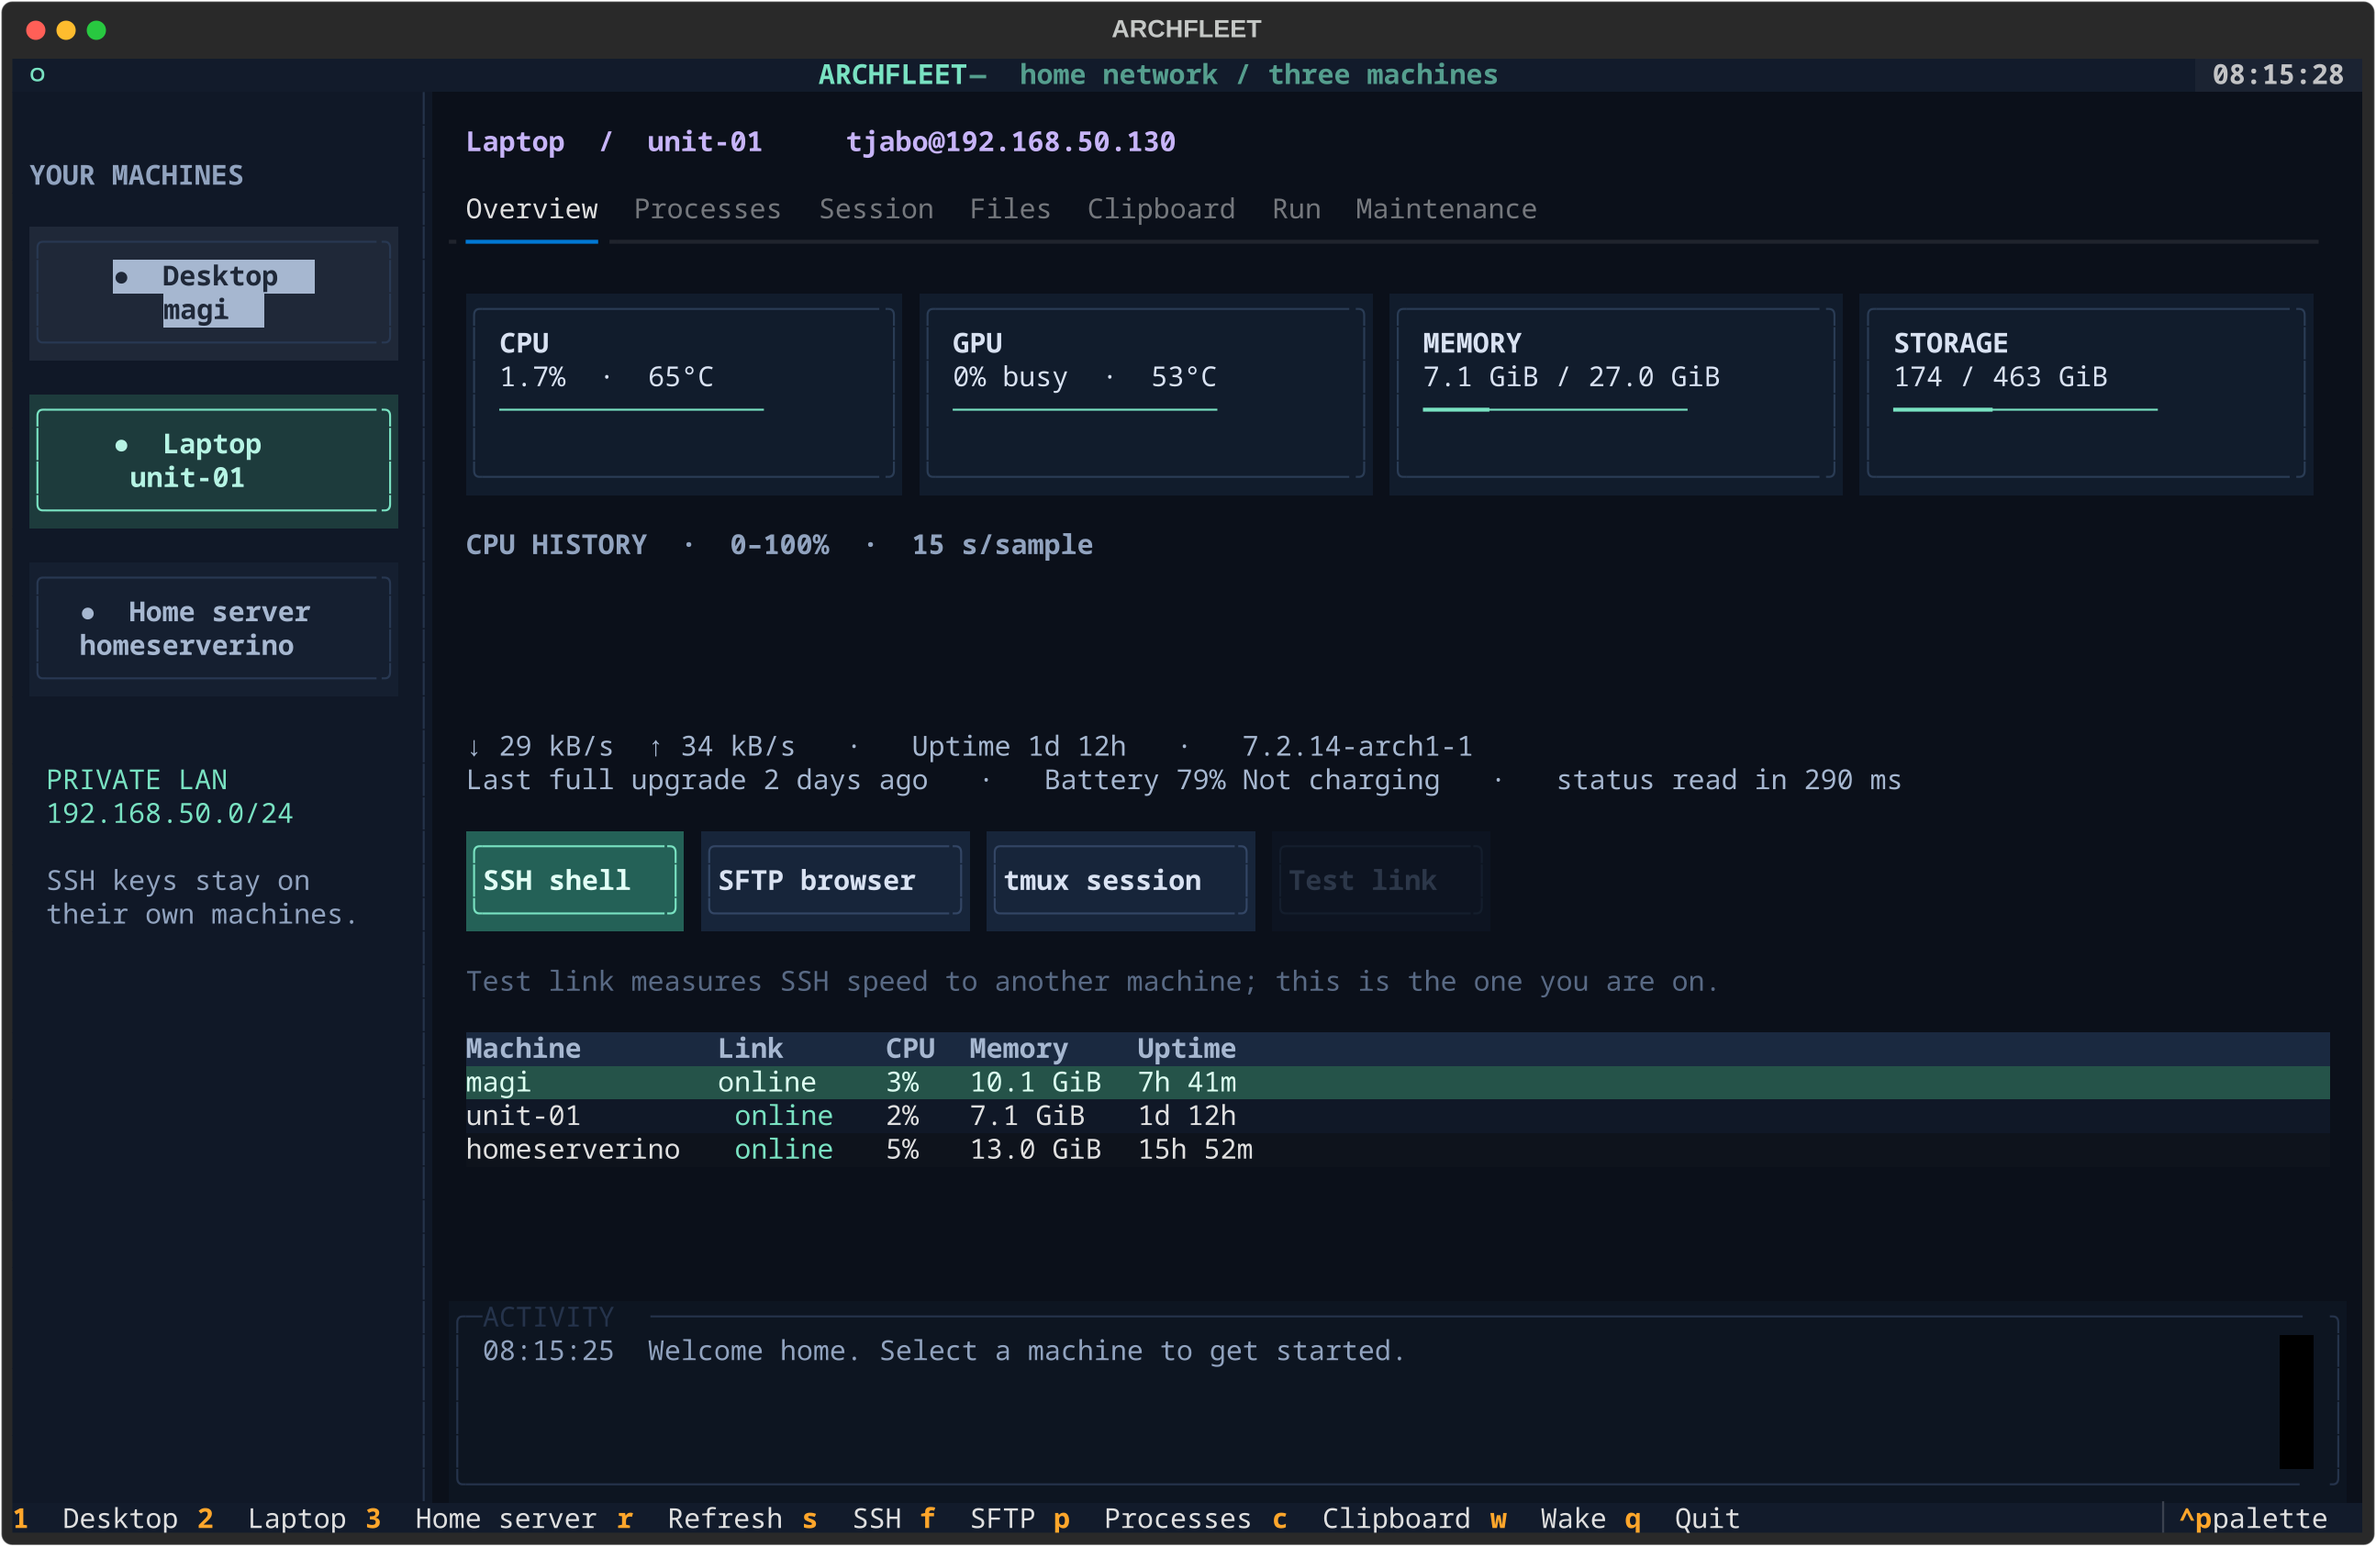
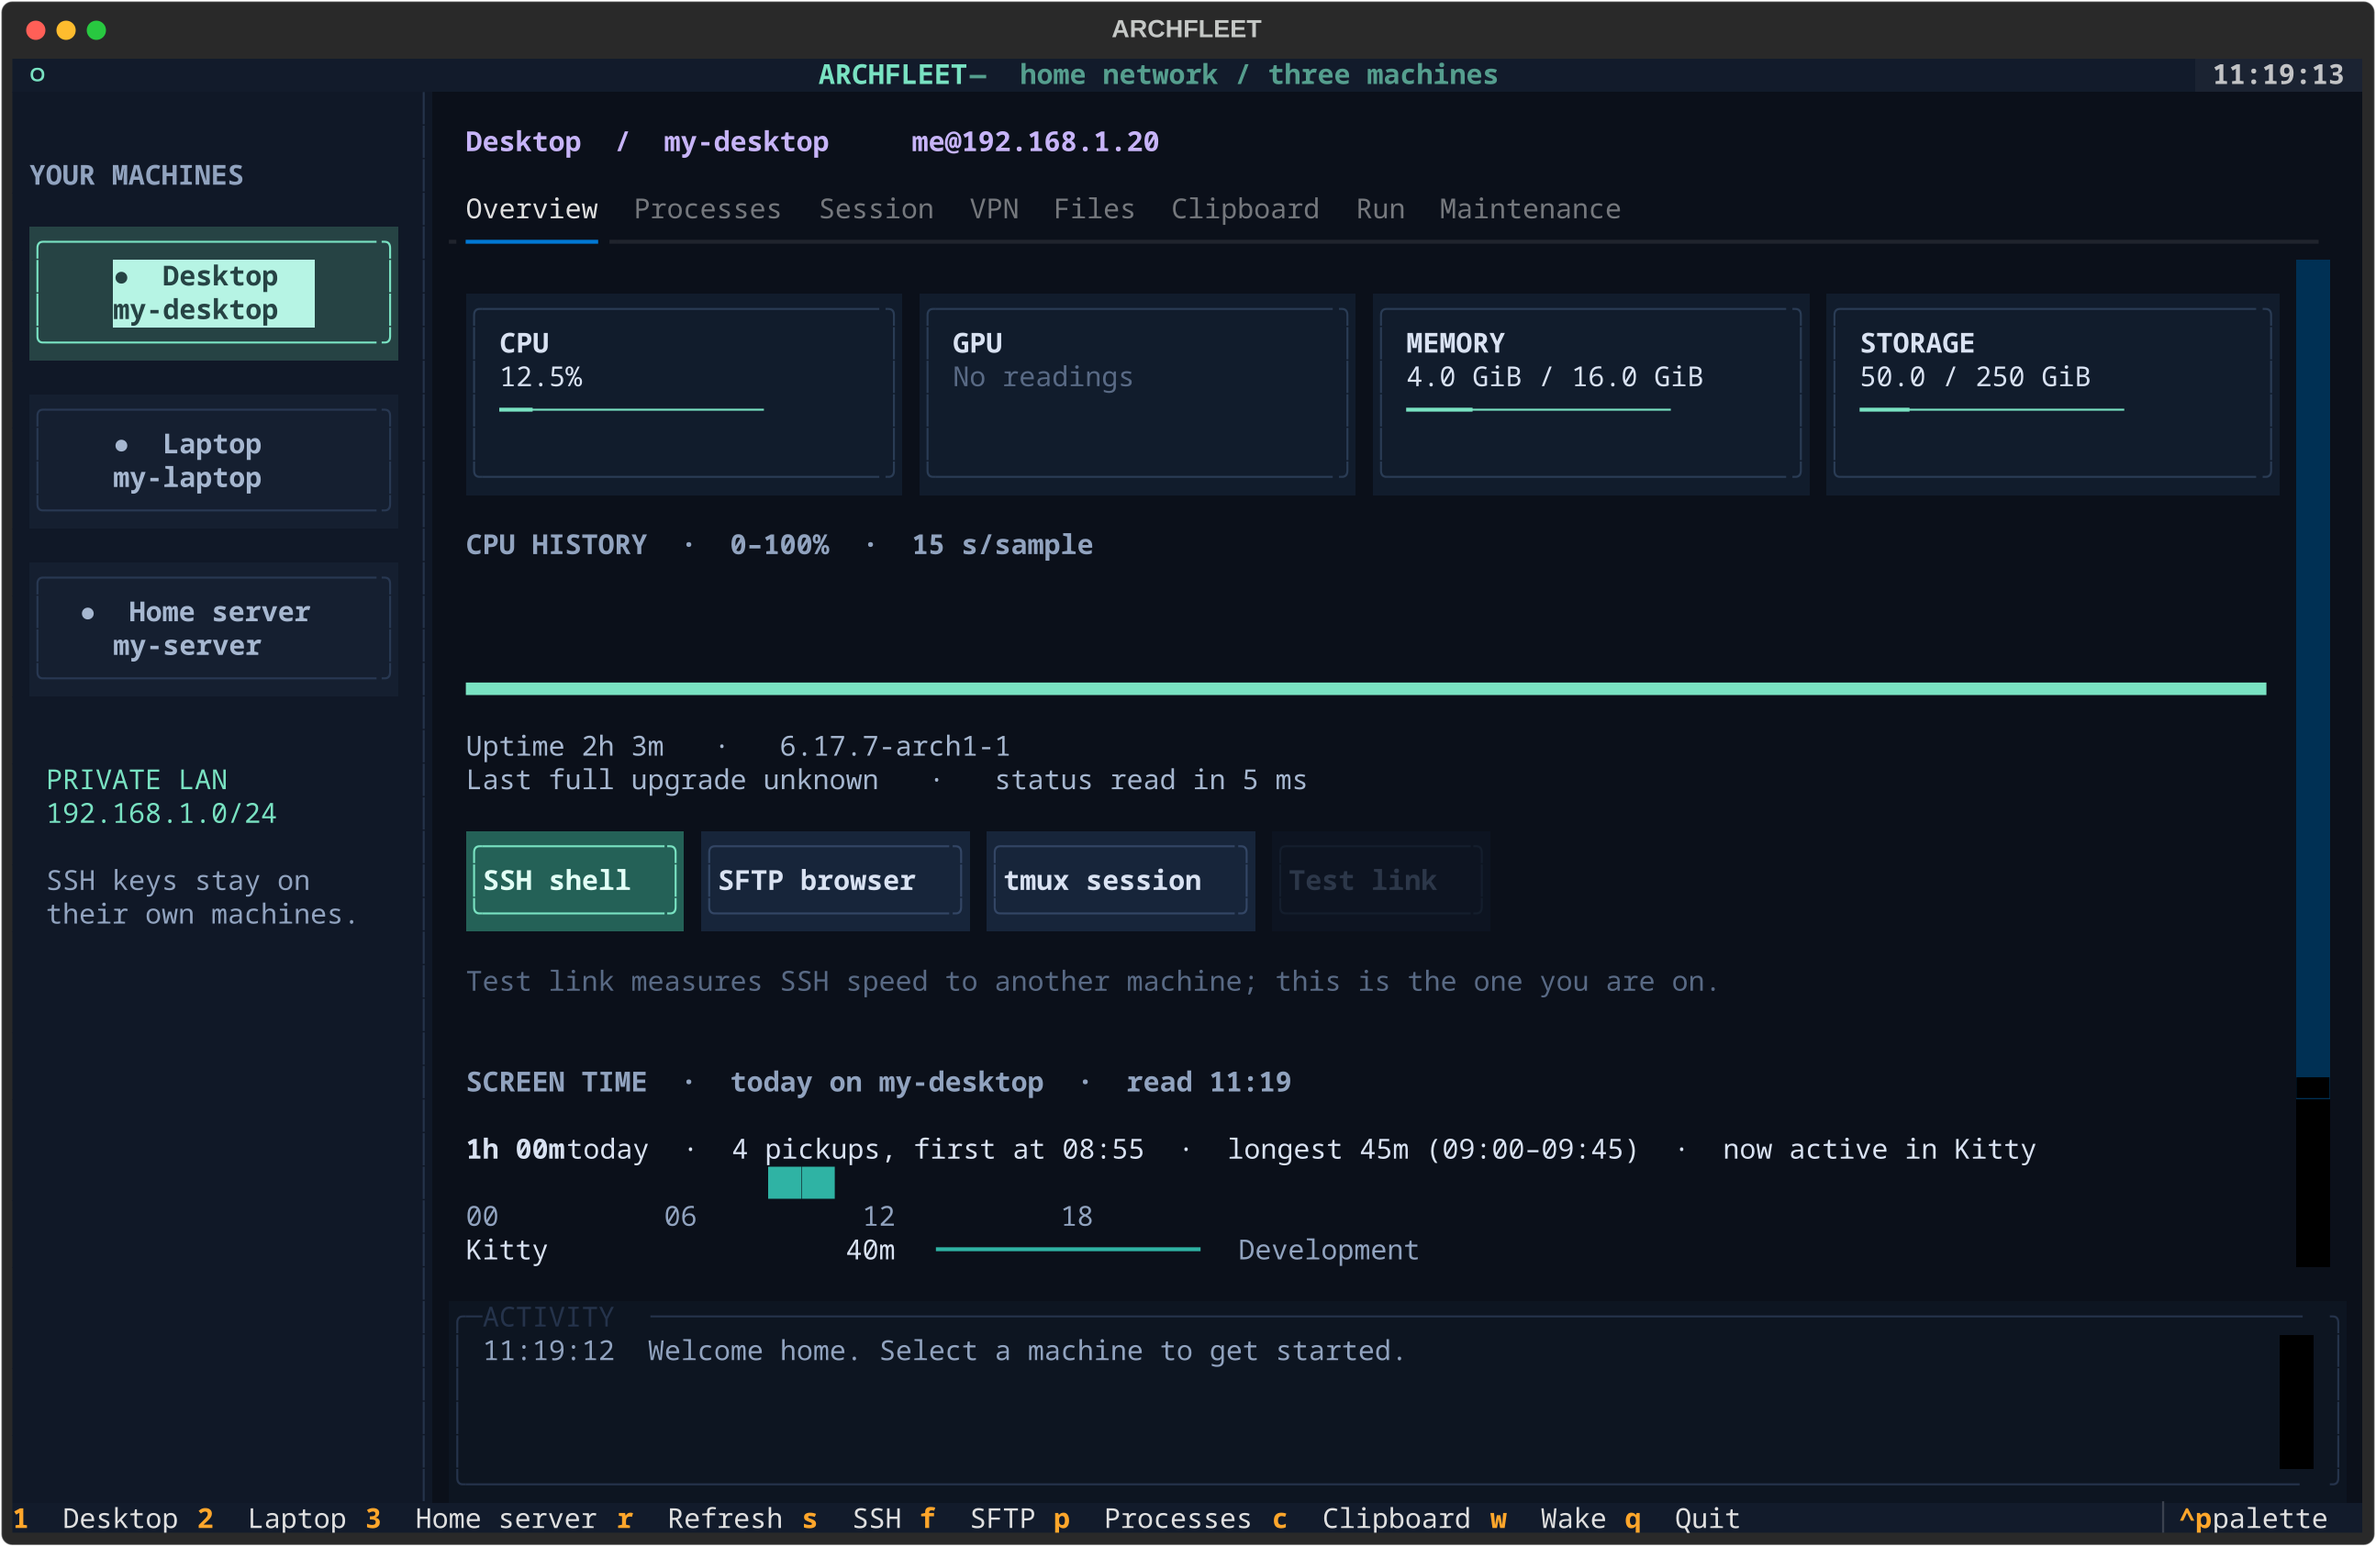
docs: render screenshots from test fixtures with preview.py --demo

diff --git a/preview.py b/preview.py
@@ -1,8 +1,17 @@
-"""Render the dashboard against your real machines into docs/ (SVG, plus PNG if rsvg-convert exists)."""
+"""Render the dashboard into docs/ (SVG, plus PNG if rsvg-convert exists).
+
+By default it reads your real machines. With --demo it uses the test fixtures (test_hosts.json and the
+fake backend), so the screenshots show no real hostnames or addresses.
+"""
 import asyncio
 import shutil
 import subprocess
+import sys
 from pathlib import Path
+
+DEMO = '--demo' in sys.argv
+if DEMO:
+    from test_app import FakeBackend  # points ARCHFLEET_HOSTS at test_hosts.json before app loads it
 from textual.widgets import TabbedContent
 from app import Archfleet
 
@@ -10,7 +19,7 @@ DOCS = Path(__file__).resolve().parent / 'docs'
 
 
 async def main():
-    app = Archfleet()
+    app = Archfleet(FakeBackend() if DEMO else None)
     async with app.run_test(size=(140, 44)) as pilot:
         await app.workers.wait_for_complete()
         await pilot.pause(1)
